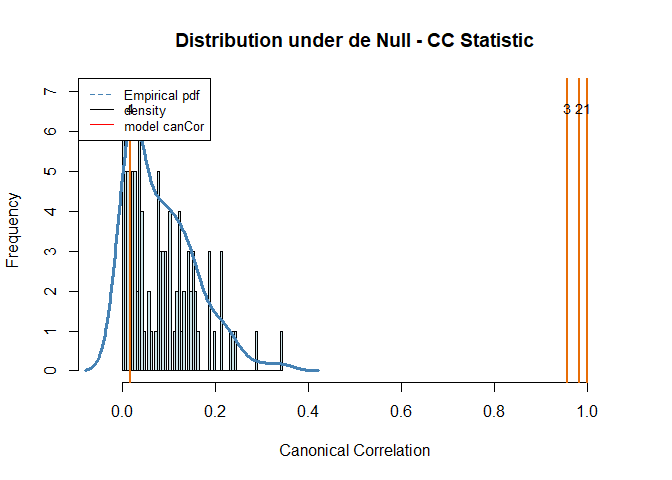
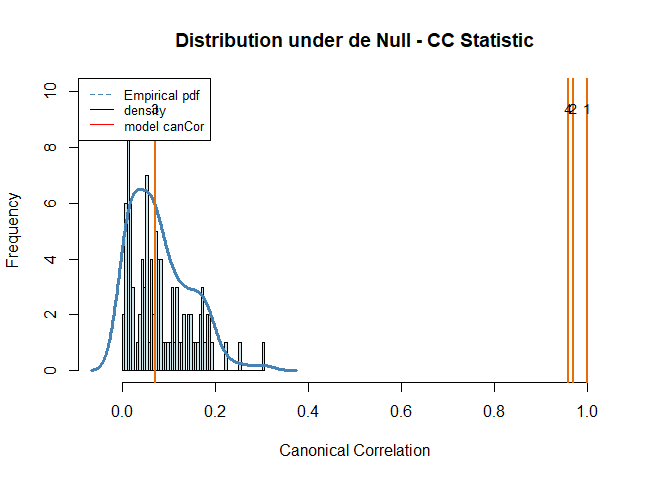
latex formula

diff --git a/README.md b/README.md
@@ -7,6 +7,7 @@
 <!-- badges: end -->
 
 The goal of toscca is to find sparse canonical vectors maximally correlating two data sets. The number of nonzero variables must be stated beforehand. The descriptive algorithm can be seen below. 
+
  
 ![alt text](https://github.com/nuria-sv/toscca/blob/master/algorithm.png)
 
@@ -29,7 +30,9 @@ canonical correlations”.
 ## Simulations
 
 We simulate data for 3 underlying signals of different size on a
-high-dimensional setting. That is, $$
+high-dimensional setting. That is,
+
+$$
 \mathbf{X} \in \mathbb{R}^{n\times p} \quad \text{and} \quad \mathbf{Y}\in \mathbb{R}^{n\times q}, 
 \\
 \text{where } n = 100, \text{ } p = 2500 \text{ and } q = 500.
@@ -54,7 +57,7 @@ cca_toscca  = toscca::toscca(X, Y, nonz_x, nonz_y, K, init, combination = FALSE)
 #>  For component K =  1 : 
 #> | . . . . . . . . . . . . . . . . . . . . . . . . . . . . . . . . . . . . . .  | 100 %          Common convergence error: 0 & Iterations: 4 
 #> k-fold cv max. cancor 
-#>             0.9999409 
+#>             0.9999237 
 #> 
 #>  ........................................ 
 #>  # nonzero A: 100
@@ -67,9 +70,9 @@ cca_toscca  = toscca::toscca(X, Y, nonz_x, nonz_y, K, init, combination = FALSE)
     #> 
     #> __________________________________________ 
     #>  For component K =  2 : 
-    #> | . . . . . . . . . . . . . . . . . . . . . . . . . . . . . . . . . . . . . .  | 100 %          Common convergence error: 0 & Iterations: 6 
+    #> | . . . . . . . . . . . . . . . . . . . . . . . . . . . . . . . . . . . . . .  | 100 %          Common convergence error: 0 & Iterations: 7 
     #> k-fold cv max. cancor 
-    #>             0.9826361 
+    #>             0.9697013 
     #> 
     #>  ........................................ 
     #>  # nonzero A: 100
@@ -81,9 +84,9 @@ cca_toscca  = toscca::toscca(X, Y, nonz_x, nonz_y, K, init, combination = FALSE)
     #> 
     #> __________________________________________ 
     #>  For component K =  3 : 
-    #> | . . . . . . . . . . . . . . . . . . . . . . . . . . . . . . . . . . . . . .  | 100 %          Common convergence error: 0 & Iterations: 13 
+    #> | . . . . . . . . . . . . . . . . . . . . . . . . . . . . . . . . . . . . . .  | 100 %          Common convergence error: 0.00177 & Iterations: 21 
     #> k-fold cv max. cancor 
-    #>             0.9552778 
+    #>            0.07092859 
     #> 
     #>  ........................................ 
     #>  # nonzero A: 100
@@ -95,9 +98,9 @@ cca_toscca  = toscca::toscca(X, Y, nonz_x, nonz_y, K, init, combination = FALSE)
     #> 
     #> __________________________________________ 
     #>  For component K =  4 : 
-    #> | . . . . . . . . . . . . . . . . . . . . . . . . . . . . . . . . . . . . . .  | 100 %          Common convergence error: 0.00686 & Iterations: 21 
+    #> | . . . . . . . . . . . . . . . . . . . . . . . . . . . . . . . . . . . . . .  | 100 %          Common convergence error: 0 & Iterations: 13 
     #> k-fold cv max. cancor 
-    #>             0.0177859 
+    #>             0.9583823 
     #> 
     #>  ........................................ 
     #>  # nonzero A: 100
@@ -120,8 +123,8 @@ perm_toscca = perm.toscca(X, Y, nonz_x, nonz_y, K = K, init, draws = 100, cancor
     #> Empirical p-values:
     #> 0
     #> 0
+    #> 0.47
     #> 0
-    #> 0.81
     #> NULL
 
 We repeat the analysis using the Penalised Matrix Analysis approach from
@@ -135,8 +138,8 @@ cca_pma = CCA_pma_random(X, Y, K = 4, typex = "standard", typez = "standard", st
                          penaltyx = pma_lambda$bestpenaltyx, pma_lambda$bestpenaltyz)
 #> 123456789101112131415
 #> 123456789101112131415
-#> 12345678
-#> 1234
+#> 123456789101112131415
+#> 123456789101112131415
 ```
 
 <img src="man/figures/README-plots-1.png" width="100%" />
@@ -152,7 +155,7 @@ selected once the signal has been retrieved.
     #>  For component K =  1 : 
     #> | . . . . . . . . . . . . . . . . . . . . . . . . . . . . . . . . . . . . . .  | 100 %          Common convergence error: 0 & Iterations: 4 
     #> k-fold cv max. cancor 
-    #>             0.9998642 
+    #>             0.9999175 
     #> 
     #>  ........................................ 
     #>  # nonzero A: 10
@@ -161,9 +164,9 @@ selected once the signal has been retrieved.
     #> 
     #> __________________________________________ 
     #>  For component K =  2 : 
-    #> | . . . . . . . . . . . . . . . . . . . . . . . . . . . . . . . . . . . . . .  | 100 %          Common convergence error: 0 & Iterations: 18 
+    #> | . . . . . . . . . . . . . . . . . . . . . . . . . . . . . . . . . . . . . .  | 100 %          Common convergence error: 0 & Iterations: 16 
     #> k-fold cv max. cancor 
-    #>             0.9150789 
+    #>             0.9274649 
     #> 
     #>  ........................................ 
     #>  # nonzero A: 10
@@ -174,7 +177,7 @@ selected once the signal has been retrieved.
     #>  For component K =  1 : 
     #> | . . . . . . . . . . . . . . . . . . . . . . . . . . . . . . . . . . . . . .  | 100 %          Common convergence error: 0 & Iterations: 4 
     #> k-fold cv max. cancor 
-    #>             0.9999091 
+    #>             0.9999551 
     #> 
     #>  ........................................ 
     #>  # nonzero A: 60
@@ -183,9 +186,9 @@ selected once the signal has been retrieved.
     #> 
     #> __________________________________________ 
     #>  For component K =  2 : 
-    #> | . . . . . . . . . . . . . . . . . . . . . . . . . . . . . . . . . . . . . .  | 100 %          Common convergence error: 0 & Iterations: 10 
+    #> | . . . . . . . . . . . . . . . . . . . . . . . . . . . . . . . . . . . . . .  | 100 %          Common convergence error: 0 & Iterations: 17 
     #> k-fold cv max. cancor 
-    #>              0.950906 
+    #>             0.9164311 
     #> 
     #>  ........................................ 
     #>  # nonzero A: 60
@@ -196,7 +199,7 @@ selected once the signal has been retrieved.
     #>  For component K =  1 : 
     #> | . . . . . . . . . . . . . . . . . . . . . . . . . . . . . . . . . . . . . .  | 100 %          Common convergence error: 0 & Iterations: 4 
     #> k-fold cv max. cancor 
-    #>             0.9999302 
+    #>             0.9999266 
     #> 
     #>  ........................................ 
     #>  # nonzero A: 110
@@ -205,12 +208,34 @@ selected once the signal has been retrieved.
     #> 
     #> __________________________________________ 
     #>  For component K =  2 : 
-    #> | . . . . . . . . . . . . . . . . . . . . . . . . . . . . . . . . . . . . . .  | 100 %          Common convergence error: 0 & Iterations: 15 
+    #> | . . . . . . . . . . . . . . . . . . . . . . . . . . . . . . . . . . . . . .  | 100 %          Common convergence error: 0 & Iterations: 20 
     #> k-fold cv max. cancor 
-    #>             0.9582509 
+    #>             0.9535667 
     #> 
     #>  ........................................ 
     #>  # nonzero A: 110
+    #>  # nonzero B: 10
+    #>  ........................................ 
+    #> 
+    #> __________________________________________ 
+    #>  For component K =  1 : 
+    #> | . . . . . . . . . . . . . . . . . . . . . . . . . . . . . . . . . . . . . .  | 100 %          Common convergence error: 0 & Iterations: 4 
+    #> k-fold cv max. cancor 
+    #>             0.9999043 
+    #> 
+    #>  ........................................ 
+    #>  # nonzero A: 160
+    #>  # nonzero B: 50
+    #>  ........................................ 
+    #> 
+    #> __________________________________________ 
+    #>  For component K =  2 : 
+    #> | . . . . . . . . . . . . . . . . . . . . . . . . . . . . . . . . . . . . . .  | 100 %          Common convergence error: 0.00034 & Iterations: 21 
+    #> k-fold cv max. cancor 
+    #>             0.1801637 
+    #> 
+    #>  ........................................ 
+    #>  # nonzero A: 160
     #>  # nonzero B: 10
     #>  ........................................ 
     #> 
@@ -218,29 +243,7 @@ selected once the signal has been retrieved.
     #>  For component K =  1 : 
     #> | . . . . . . . . . . . . . . . . . . . . . . . . . . . . . . . . . . . . . .  | 100 %          Common convergence error: 0 & Iterations: 5 
     #> k-fold cv max. cancor 
-    #>             0.9997974 
-    #> 
-    #>  ........................................ 
-    #>  # nonzero A: 160
-    #>  # nonzero B: 50
-    #>  ........................................ 
-    #> 
-    #> __________________________________________ 
-    #>  For component K =  2 : 
-    #> | . . . . . . . . . . . . . . . . . . . . . . . . . . . . . . . . . . . . . .  | 100 %          Common convergence error: 0 & Iterations: 12 
-    #> k-fold cv max. cancor 
-    #>             0.9551681 
-    #> 
-    #>  ........................................ 
-    #>  # nonzero A: 160
-    #>  # nonzero B: 10
-    #>  ........................................ 
-    #> 
-    #> __________________________________________ 
-    #>  For component K =  1 : 
-    #> | . . . . . . . . . . . . . . . . . . . . . . . . . . . . . . . . . . . . . .  | 100 %          Common convergence error: 0 & Iterations: 4 
-    #> k-fold cv max. cancor 
-    #>             0.9998029 
+    #>              0.999607 
     #> 
     #>  ........................................ 
     #>  # nonzero A: 210
@@ -249,9 +252,9 @@ selected once the signal has been retrieved.
     #> 
     #> __________________________________________ 
     #>  For component K =  2 : 
-    #> | . . . . . . . . . . . . . . . . . . . . . . . . . . . . . . . . . . . . . .  | 100 %          Common convergence error: 0 & Iterations: 11 
+    #> | . . . . . . . . . . . . . . . . . . . . . . . . . . . . . . . . . . . . . .  | 100 %          Common convergence error: 2e-04 & Iterations: 21 
     #> k-fold cv max. cancor 
-    #>             0.9584947 
+    #>              0.917689 
     #> 
     #>  ........................................ 
     #>  # nonzero A: 210
@@ -262,7 +265,7 @@ selected once the signal has been retrieved.
     #>  For component K =  1 : 
     #> | . . . . . . . . . . . . . . . . . . . . . . . . . . . . . . . . . . . . . .  | 100 %          Common convergence error: 0 & Iterations: 4 
     #> k-fold cv max. cancor 
-    #>              0.999756 
+    #>              0.999601 
     #> 
     #>  ........................................ 
     #>  # nonzero A: 260
@@ -271,9 +274,9 @@ selected once the signal has been retrieved.
     #> 
     #> __________________________________________ 
     #>  For component K =  2 : 
-    #> | . . . . . . . . . . . . . . . . . . . . . . . . . . . . . . . . . . . . . .  | 100 %          Common convergence error: 4e-05 & Iterations: 21 
+    #> | . . . . . . . . . . . . . . . . . . . . . . . . . . . . . . . . . . . . . .  | 100 %          Common convergence error: 0 & Iterations: 18 
     #> k-fold cv max. cancor 
-    #>             0.9198801 
+    #>             0.9139329 
     #> 
     #>  ........................................ 
     #>  # nonzero A: 260
@@ -284,7 +287,7 @@ selected once the signal has been retrieved.
     #>  For component K =  1 : 
     #> | . . . . . . . . . . . . . . . . . . . . . . . . . . . . . . . . . . . . . .  | 100 %          Common convergence error: 0 & Iterations: 4 
     #> k-fold cv max. cancor 
-    #>             0.9996817 
+    #>             0.9996736 
     #> 
     #>  ........................................ 
     #>  # nonzero A: 310
@@ -293,9 +296,9 @@ selected once the signal has been retrieved.
     #> 
     #> __________________________________________ 
     #>  For component K =  2 : 
-    #> | . . . . . . . . . . . . . . . . . . . . . . . . . . . . . . . . . . . . . .  | 100 %          Common convergence error: 0 & Iterations: 21 
+    #> | . . . . . . . . . . . . . . . . . . . . . . . . . . . . . . . . . . . . . .  | 100 %          Common convergence error: 0 & Iterations: 13 
     #> k-fold cv max. cancor 
-    #>             0.9325415 
+    #>              0.890896 
     #> 
     #>  ........................................ 
     #>  # nonzero A: 310
@@ -306,7 +309,7 @@ selected once the signal has been retrieved.
     #>  For component K =  1 : 
     #> | . . . . . . . . . . . . . . . . . . . . . . . . . . . . . . . . . . . . . .  | 100 %          Common convergence error: 0 & Iterations: 4 
     #> k-fold cv max. cancor 
-    #>             0.9996376 
+    #>             0.9996814 
     #> 
     #>  ........................................ 
     #>  # nonzero A: 360
@@ -315,9 +318,9 @@ selected once the signal has been retrieved.
     #> 
     #> __________________________________________ 
     #>  For component K =  2 : 
-    #> | . . . . . . . . . . . . . . . . . . . . . . . . . . . . . . . . . . . . . .  | 100 %          Common convergence error: 0 & Iterations: 16 
+    #> | . . . . . . . . . . . . . . . . . . . . . . . . . . . . . . . . . . . . . .  | 100 %          Common convergence error: 5e-04 & Iterations: 21 
     #> k-fold cv max. cancor 
-    #>             0.9292711 
+    #>             0.0789554 
     #> 
     #>  ........................................ 
     #>  # nonzero A: 360
@@ -434,22 +437,22 @@ third_fourth
 PMA
 </td>
 <td style="text-align:right;">
-0.7381155
+-0.0101011
 </td>
 <td style="text-align:right;">
--0.4229563
+-0.0098659
 </td>
 <td style="text-align:right;">
-0.4332640
+0.7515935
 </td>
 <td style="text-align:right;">
--0.2408260
+0.6394067
 </td>
 <td style="text-align:right;">
-0.4146673
+0.0678320
 </td>
 <td style="text-align:right;">
--0.5310394
+0.0594177
 </td>
 </tr>
 <tr>
@@ -457,22 +460,22 @@ PMA
 TOSCCA
 </td>
 <td style="text-align:right;">
--0.0154265
+-0.0177197
 </td>
 <td style="text-align:right;">
--0.0092960
+-0.0049691
 </td>
 <td style="text-align:right;">
-0.0139717
+-0.0072203
 </td>
 <td style="text-align:right;">
--0.0044669
+-0.0071963
 </td>
 <td style="text-align:right;">
--0.0271798
+-0.0054718
 </td>
 <td style="text-align:right;">
--0.0077076
+0.0019562
 </td>
 </tr>
 </tbody>
@@ -502,16 +505,16 @@ Autocorrelation between components
 PMA
 </td>
 <td style="text-align:right;">
-0.0016333
+0.0018742
 </td>
 <td style="text-align:right;">
-0.0017109
+0.0074206
 </td>
 <td style="text-align:right;">
-0.0017598
+0.0165313
 </td>
 <td style="text-align:right;">
-0.0018841
+0.0073005
 </td>
 </tr>
 <tr>
@@ -519,16 +522,16 @@ PMA
 TOSCCA
 </td>
 <td style="text-align:right;">
-0.0058611
+0.0068203
 </td>
 <td style="text-align:right;">
-0.0065404
+0.0072914
 </td>
 <td style="text-align:right;">
-0.0071267
+0.0079135
 </td>
 <td style="text-align:right;">
-0.0077242
+0.0086260
 </td>
 </tr>
 </tbody>
